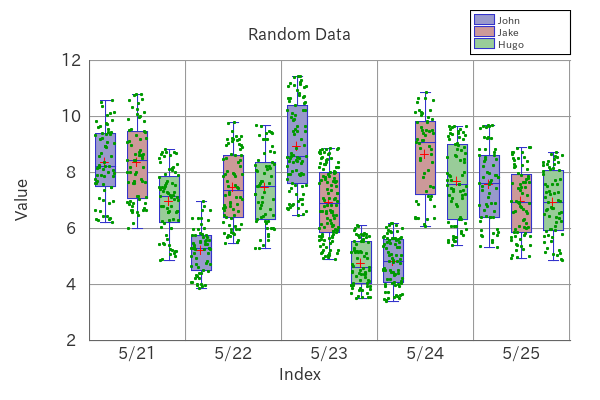
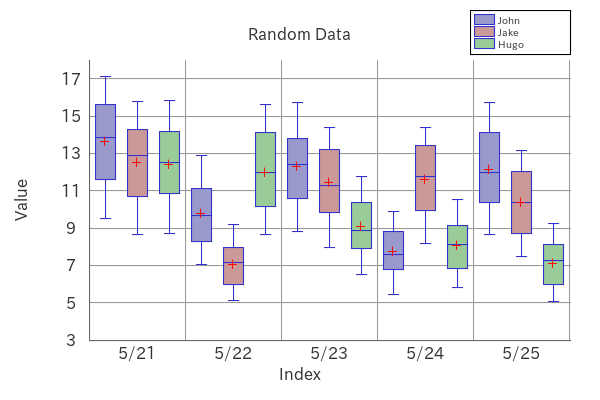
Update 1.0.2 => 1.0.3
example updated
composer.json updated

diff --git a/example/BoxplotExampleCase.php b/example/BoxplotExampleCase.php
@@ -21,10 +21,10 @@ $players = [
 ];
 $dataset = [];
 foreach ($players as $playre => $name) {
-    $waightP = $faker->numberBetween(7, 13) * 10 / 100;
+    $waightP = $faker->numberBetween(7, 13) / 10;
     $data = [];
     foreach ($keys as $index => $key) {
-        $waightD = $faker->numberBetween(7, 13) * 10 / 100;
+        $waightD = $faker->numberBetween(7, 13) / 10;
         $data[$index] = [];
         for ($i = 0; $i < $faker->numberBetween(50, 600); $i++) {
             $data[$index][] = $waightD * $waightP * $faker->numberBetween(600, 1100) / 100;
@@ -37,7 +37,7 @@ $bp->setDataset($dataset)
    ->boxWidth(20)
    ->gridVerticalOn()
    ->outlierOn()
-   ->jitterOn()
+   ->jitterOff()
    ->meanOn()
    ->legendOn()
    ->gridHeightPitch(2)
